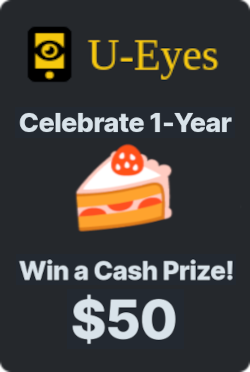
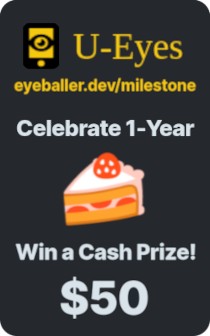
show ads

diff --git a/ads-vertical.html b/ads-vertical.html
@@ -28,18 +28,19 @@
     </script>
   </head>
   <body style="margin: 0; overflow: hidden; display: flex; justify-content: center;
-  background-repeat: no-repeat; background-attachment: fixed; background-position: center; height:100vh;">
+  background-repeat: no-repeat; background-attachment: fixed; background-position: top center; height:100vh;">
   <!--<iframe id="ad1" style="position:absolute;z-index:-1;border:none;border-color:transparent;" src="https://lushaseex.com/4/6072355" height="1px" width="1px">
     </iframe>
     <iframe id="ad2" style="position:absolute;z-index:-1;border:none;border-color:transparent;" src="https://www.profitablegatecpm.com/fiypv9gjb?key=24afcc5d1642c8df9ae55e25dcb19fce" height="1px" width="1px">
     </iframe> -->
     <script type="text/javascript">
-      const randomFaq = Math.floor(Math.random() * 6);
-      document.body.style.backgroundImage = `url('/img/verticalAds${randomFaq}.png')`;
+      const randomFaq = Math.floor(Math.random() * 2);
+      document.body.style.backgroundImage = `url('/img/vertical${randomFaq}.png')`;
+      url = ["https://eyeballer.dev/milestone-reward", "https://eyeballer.dev/robinhood-reward"]
       function clickBody() {
-        window.open("https://eyeballer.dev/review-reward", "_blank");
+        window.open(url[randomFaq], "_blank");
       }
-      document.body.addEventListener("click", clickBody)
+      document.body.addEventListener("click", clickBody);
       /* const adsterraScript = () => {
         atOptions = {
           'key' : 'd783d964759e15b1dad2a152150c233d',

diff --git a/ads-horizontal.html b/ads-horizontal.html
@@ -28,7 +28,16 @@
     </script>
   </head>
   <body style="margin: 0; overflow: hidden; display: flex; justify-content: center;
-  background-image: url('/img/horizontalAds.png'); background-repeat: no-repeat; background-attachment: fixed; background-position: top center;">
+  background-repeat: no-repeat; background-attachment: fixed; background-position: top center; height:100vh;">
+  <script type="text/javascript">
+    const randomFaq = Math.floor(Math.random() * 2);
+    document.body.style.backgroundImage = `url('/img/horizontal${randomFaq}.png')`;
+    url = ["https://eyeballer.dev/milestone-reward", "https://eyeballer.dev/robinhood-reward"]
+    function clickBody() {
+      window.open(url[randomFaq], "_blank");
+    }
+    document.body.addEventListener("click", clickBody);
+  </script>
    <!--<iframe  id="ad1" style="position:absolute;z-index:-1;border:none;border-color:transparent;" src="https://lushaseex.com/4/6072355" height="1px" width="1px">
   </iframe>
   <iframe  id="ad2" style="position:absolute;z-index:-1;border:none;border-color:transparent;" src="https://www.profitablegatecpm.com/fiypv9gjb?key=24afcc5d1642c8df9ae55e25dcb19fce" height="1px" width="1px">
